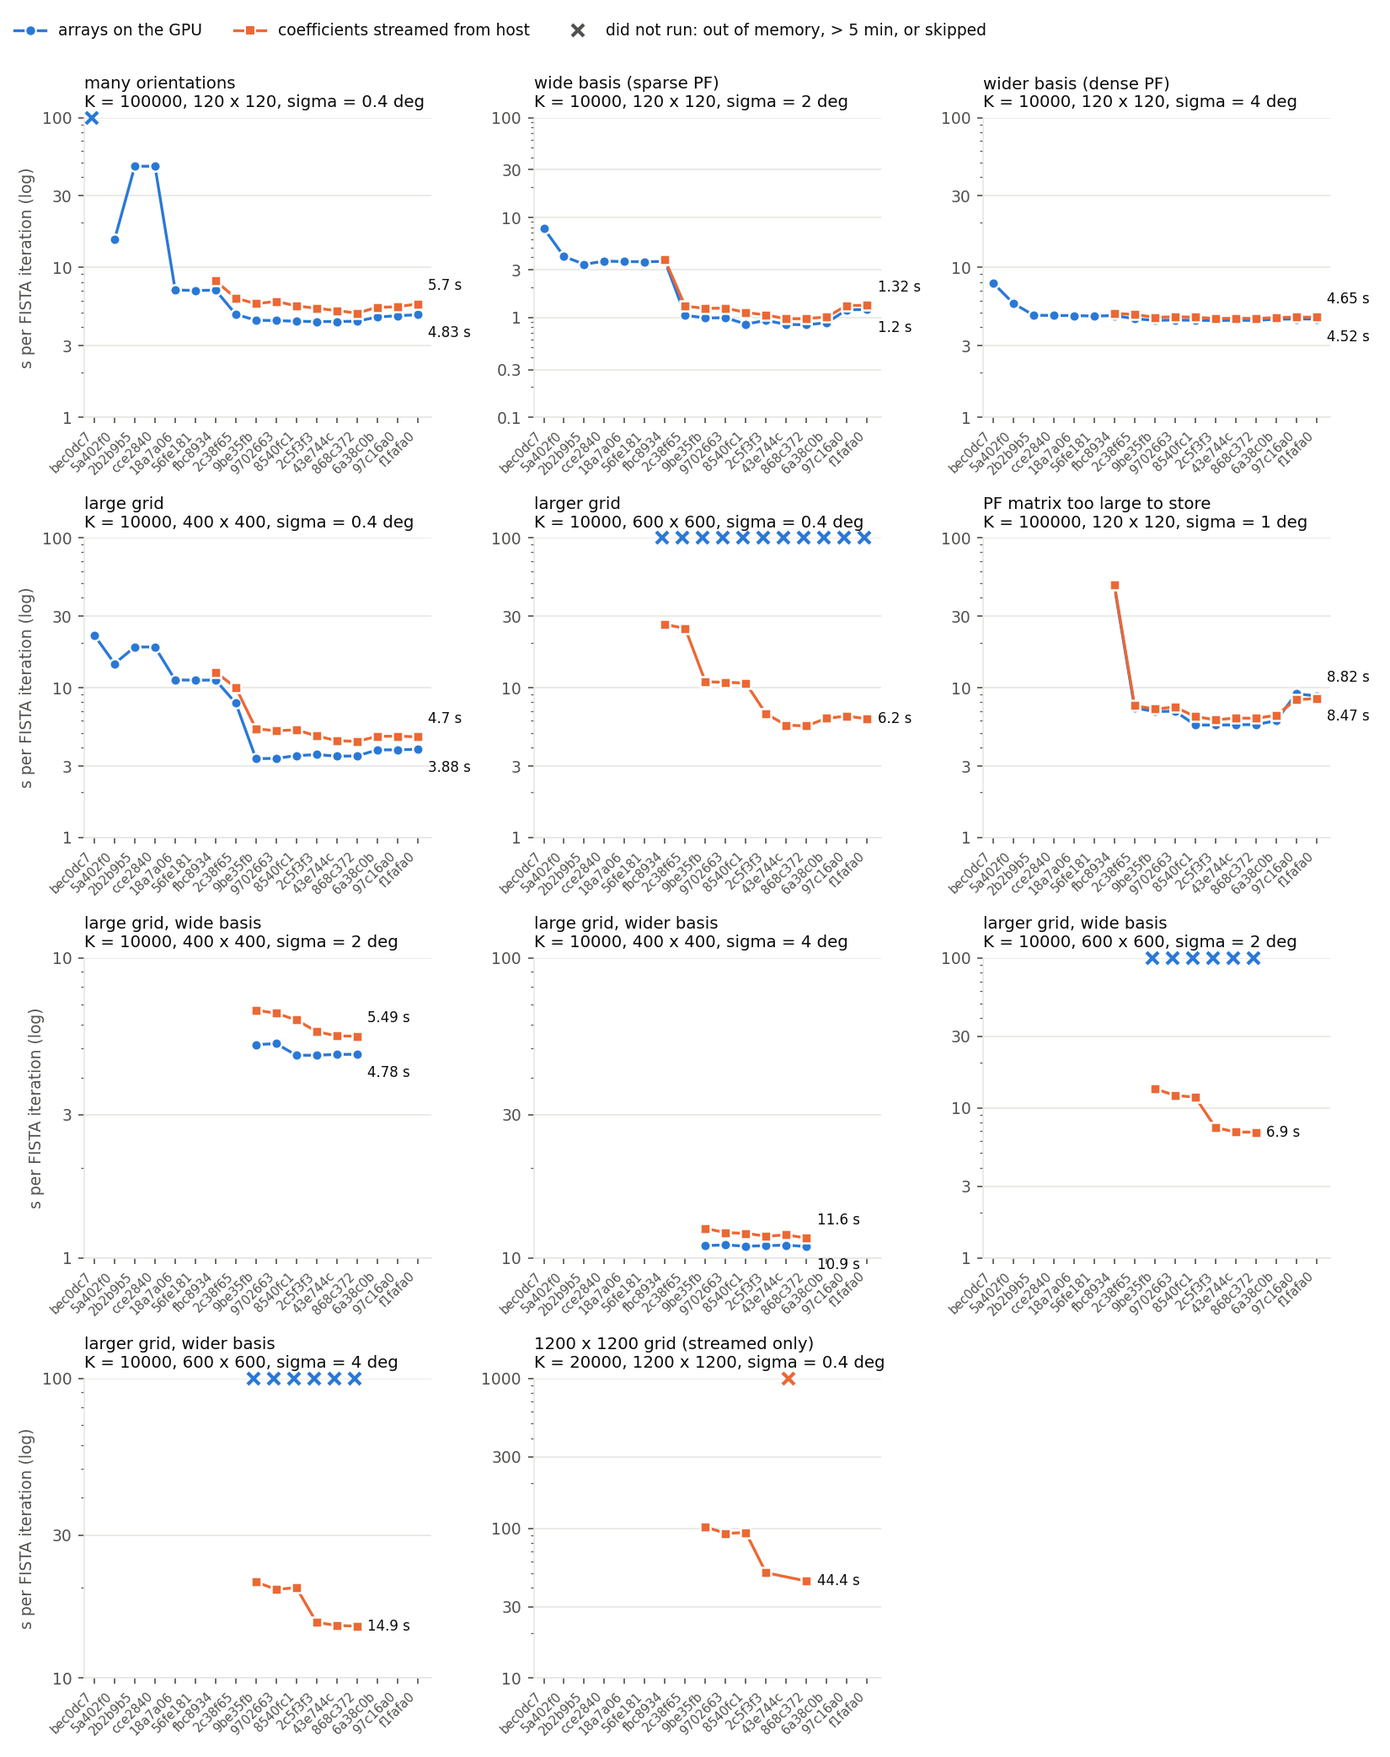
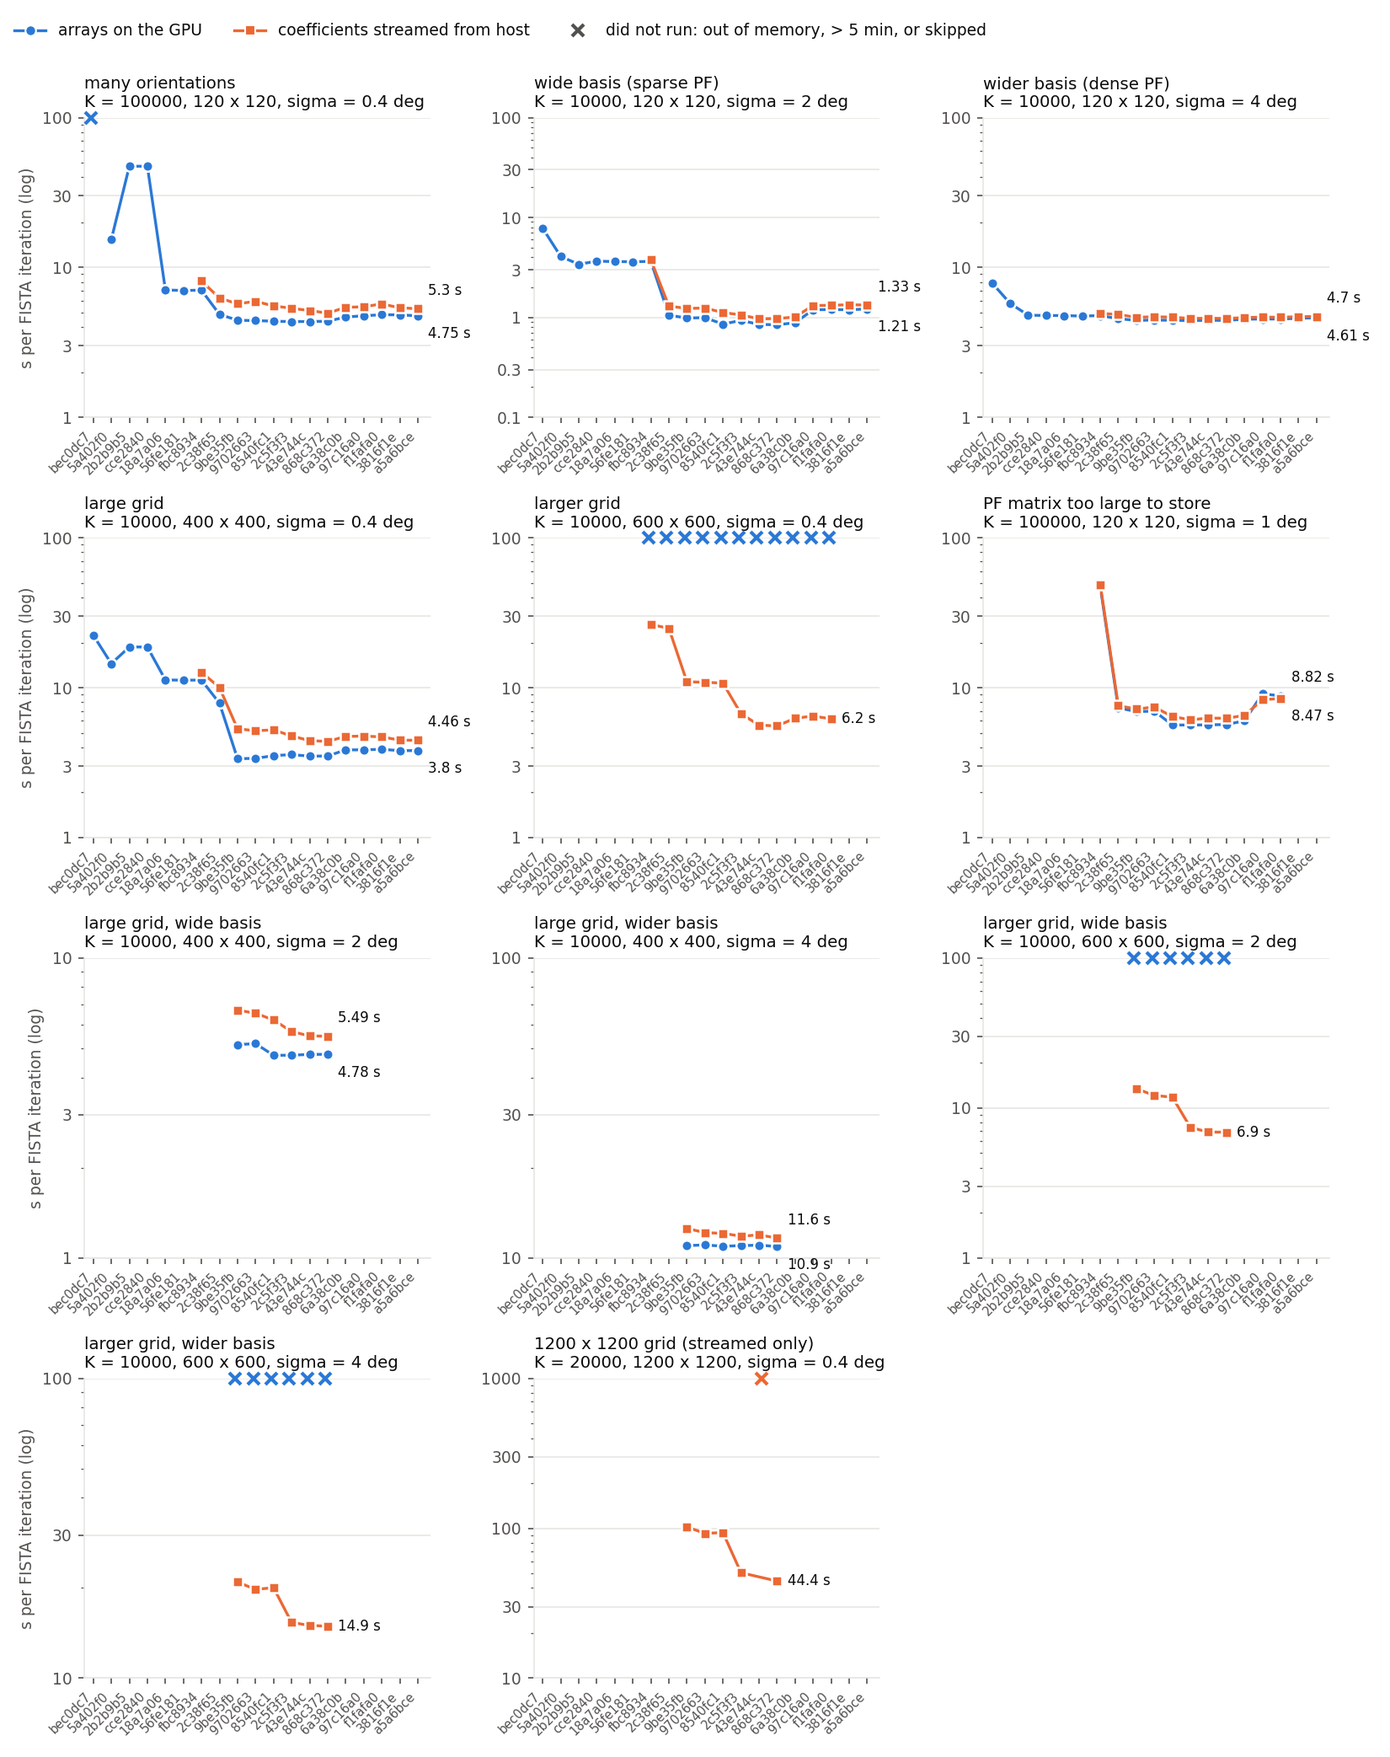
Benchmark results: 3816f1e vs a5a6bce (A40, default suite)
The tuned kernel choice of ParallelRadon keeps the tiled kernels on the A40 (speed-ups 0.96-1.06x, noise); the
gains are on the A100 / V100 (Al1050 PDHG 3.57 -> 3.10 s per iteration on an A100).

diff --git a/benchmarks/RESULTS.md b/benchmarks/RESULTS.md
@@ -10,6 +10,8 @@ Speed and peak memory of diffractom's texture-tomography reconstruction across v
 
 | version | date | what changed |
 |---|---|---|
+| `a5a6bce` | 2026-11-02 | ParallelRadon picks the faster of its tiled and plain kernels; FFT projector subsets; tests |
+| `3816f1e` | 2026-11-01 | Merge branch 'subsets': omega subsets of the operator and SPDHGPoisson |
 | `f1fafa0` | 2026-10-29 | Gauss-Legendre quadrature over the (omega, eta) bins, the fewest nodes that keep every PF entry within 5 % of the peak (here 4 nodes at sigma 0.4 deg, 2 at 1 deg, 1 from 1.3 deg); candidate counts of generated PF batches computed once |
 | `97c16a0` | 2026-10-29 | PF Gaussians cut at 4 sigma (was 3; results change by ~0.8 %; 1.78 times the non-zeros) |
 | `6a38c0b` | 2026-10-26 | main of 2026-10-26: pixel-footprint (trapezoid) projector kernel by default (results differ by ~2 %); local basis, ODF basis, structure factors, Bragg-edge operator (not in these cases) |
@@ -28,38 +30,34 @@ Speed and peak memory of diffractom's texture-tomography reconstruction across v
 | `5a402f0` | 2026-09-28 | sparse PF matrix (`pf_mode="auto"`) |
 | `bec0dc7` | 2026-09-28 | before the speed-ups: dense PF matrix only |
 
-## Newest (`f1fafa0`) against the version before it (`97c16a0`)
+## Newest (`a5a6bce`) against the version before it (`3816f1e`)
 
 Seconds per FISTA iteration, steady state (without the first iteration, which includes the setup) where both versions recorded it (marked s), else the average of the two iterations; speed-up = previous / newest (below 1: slower). Single short runs: differences within about 10 % are noise.
 
 | case | mode | previous | newest | speed-up |
 |---|---|---:|---:|---:|
-| K = 1000, 120 x 120, sigma = 0.4 | gpu | 0.055 | 0.0559 | 0.98x s |
-| K = 3000, 120 x 120, sigma = 0.4 | gpu | 0.11 | 0.112 | 0.99x s |
-| K = 10000, 64 x 64, sigma = 0.4 | gpu | 0.148 | 0.151 | 0.98x s |
-| K = 10000, 120 x 120, sigma = 0.4 | gpu | 0.356 | 0.363 | 0.98x s |
-| K = 10000, 120 x 120, sigma = 1 | gpu | 0.473 | 0.483 | 0.98x s |
-| K = 10000, 120 x 120, sigma = 2 | gpu | 0.904 | 0.904 | 1.00x s |
-| K = 10000, 120 x 120, sigma = 4 | gpu | 3.4 | 3.4 | 1.00x s |
-| K = 10000, 200 x 200, sigma = 0.4 | gpu | 0.82 | 0.832 | 0.98x s |
-| K = 10000, 400 x 400, sigma = 0.4 | gpu | 2.76 | 2.75 | 1.00x s |
-| K = 10000, 600 x 600, sigma = 0.4 | gpu | *array > largest GPU buffer* | *array > largest GPU buffer* |  |
-| K = 30000, 120 x 120, sigma = 0.4 | gpu | 1.06 | 1.07 | 0.98x s |
-| K = 100000, 120 x 120, sigma = 0.4 | gpu | 3.47 | 3.53 | 0.98x s |
-| K = 100000, 120 x 120, sigma = 1 | gpu | 6.57 | 6.38 | 1.03x s |
-| K = 1000, 120 x 120, sigma = 0.4 | stream | 0.0619 | 0.0632 | 0.98x s |
-| K = 3000, 120 x 120, sigma = 0.4 | stream | 0.121 | 0.123 | 0.98x s |
-| K = 10000, 64 x 64, sigma = 0.4 | stream | 0.154 | 0.157 | 0.98x s |
-| K = 10000, 120 x 120, sigma = 0.4 | stream | 0.399 | 0.375 | 1.06x s |
-| K = 10000, 120 x 120, sigma = 1 | stream | 0.483 | 0.488 | 0.99x s |
-| K = 10000, 120 x 120, sigma = 2 | stream | 0.912 | 0.913 | 1.00x s |
-| K = 10000, 120 x 120, sigma = 4 | stream | 3.42 | 3.42 | 1.00x s |
-| K = 10000, 200 x 200, sigma = 0.4 | stream | 0.845 | 0.854 | 0.99x s |
-| K = 10000, 400 x 400, sigma = 0.4 | stream | 2.82 | 2.78 | 1.01x s |
-| K = 10000, 600 x 600, sigma = 0.4 | stream | 3.74 | 3.66 | 1.02x s |
-| K = 30000, 120 x 120, sigma = 0.4 | stream | 1.07 | 1.12 | 0.95x s |
-| K = 100000, 120 x 120, sigma = 0.4 | stream | 3.49 | 3.55 | 0.98x s |
-| K = 100000, 120 x 120, sigma = 1 | stream | 5.44 | 5.61 | 0.97x s |
+| K = 1000, 120 x 120, sigma = 0.4 | gpu | 0.0563 | 0.0586 | 0.96x s |
+| K = 3000, 120 x 120, sigma = 0.4 | gpu | 0.112 | 0.114 | 0.98x s |
+| K = 10000, 64 x 64, sigma = 0.4 | gpu | 0.151 | 0.149 | 1.01x s |
+| K = 10000, 120 x 120, sigma = 0.4 | gpu | 0.362 | 0.362 | 1.00x s |
+| K = 10000, 120 x 120, sigma = 1 | gpu | 0.481 | 0.485 | 0.99x s |
+| K = 10000, 120 x 120, sigma = 2 | gpu | 0.903 | 0.927 | 0.97x s |
+| K = 10000, 120 x 120, sigma = 4 | gpu | 3.44 | 3.48 | 0.99x s |
+| K = 10000, 200 x 200, sigma = 0.4 | gpu | 0.83 | 0.805 | 1.03x s |
+| K = 10000, 400 x 400, sigma = 0.4 | gpu | 2.74 | 2.75 | 1.00x s |
+| K = 30000, 120 x 120, sigma = 0.4 | gpu | 1.11 | 1.05 | 1.06x s |
+| K = 100000, 120 x 120, sigma = 0.4 | gpu | 3.52 | 3.45 | 1.02x s |
+| K = 1000, 120 x 120, sigma = 0.4 | stream | 0.062 | 0.0645 | 0.96x s |
+| K = 3000, 120 x 120, sigma = 0.4 | stream | 0.122 | 0.121 | 1.01x s |
+| K = 10000, 64 x 64, sigma = 0.4 | stream | 0.156 | 0.155 | 1.01x s |
+| K = 10000, 120 x 120, sigma = 0.4 | stream | 0.373 | 0.373 | 1.00x s |
+| K = 10000, 120 x 120, sigma = 1 | stream | 0.487 | 0.492 | 0.99x s |
+| K = 10000, 120 x 120, sigma = 2 | stream | 0.91 | 0.934 | 0.97x s |
+| K = 10000, 120 x 120, sigma = 4 | stream | 3.46 | 3.47 | 1.00x s |
+| K = 10000, 200 x 200, sigma = 0.4 | stream | 0.852 | 0.826 | 1.03x s |
+| K = 10000, 400 x 400, sigma = 0.4 | stream | 2.77 | 2.77 | 1.00x s |
+| K = 30000, 120 x 120, sigma = 0.4 | stream | 1.08 | 1.06 | 1.02x s |
+| K = 100000, 120 x 120, sigma = 0.4 | stream | 3.54 | 3.48 | 1.02x s |
 
 ## Every version on the base case
 
@@ -325,6 +323,50 @@ The time per iteration above includes a one-time setup in the first of the two F
 | `f1fafa0` | K = 10000, 400 x 400, sigma = 0.4 | gpu | 6.07 | 2.75 |
 | `f1fafa0` | K = 10000, 400 x 400, sigma = 0.4 | stream | 8.42 | 2.78 |
 | `f1fafa0` | K = 10000, 600 x 600, sigma = 0.4 | stream | 11.1 | 3.66 |
+| `3816f1e` | K = 10000, 64 x 64, sigma = 0.4 | gpu | 0.321 | 0.151 |
+| `3816f1e` | K = 10000, 64 x 64, sigma = 0.4 | stream | 0.452 | 0.156 |
+| `3816f1e` | K = 1000, 120 x 120, sigma = 0.4 | gpu | 0.118 | 0.0563 |
+| `3816f1e` | K = 1000, 120 x 120, sigma = 0.4 | stream | 0.266 | 0.062 |
+| `3816f1e` | K = 3000, 120 x 120, sigma = 0.4 | gpu | 0.237 | 0.112 |
+| `3816f1e` | K = 3000, 120 x 120, sigma = 0.4 | stream | 0.426 | 0.122 |
+| `3816f1e` | K = 10000, 120 x 120, sigma = 0.4 | gpu | 0.747 | 0.362 |
+| `3816f1e` | K = 10000, 120 x 120, sigma = 0.4 | stream | 1.05 | 0.373 |
+| `3816f1e` | K = 10000, 120 x 120, sigma = 1 | gpu | 0.958 | 0.481 |
+| `3816f1e` | K = 10000, 120 x 120, sigma = 1 | stream | 1.32 | 0.487 |
+| `3816f1e` | K = 10000, 120 x 120, sigma = 2 | gpu | 1.7 | 0.903 |
+| `3816f1e` | K = 10000, 120 x 120, sigma = 2 | stream | 2.07 | 0.91 |
+| `3816f1e` | K = 10000, 120 x 120, sigma = 4 | gpu | 6.79 | 3.44 |
+| `3816f1e` | K = 10000, 120 x 120, sigma = 4 | stream | 7.06 | 3.46 |
+| `3816f1e` | K = 30000, 120 x 120, sigma = 0.4 | gpu | 2.22 | 1.11 |
+| `3816f1e` | K = 30000, 120 x 120, sigma = 0.4 | stream | 2.78 | 1.08 |
+| `3816f1e` | K = 100000, 120 x 120, sigma = 0.4 | gpu | 7.3 | 3.52 |
+| `3816f1e` | K = 100000, 120 x 120, sigma = 0.4 | stream | 8.83 | 3.54 |
+| `3816f1e` | K = 10000, 200 x 200, sigma = 0.4 | gpu | 1.73 | 0.83 |
+| `3816f1e` | K = 10000, 200 x 200, sigma = 0.4 | stream | 2.41 | 0.852 |
+| `3816f1e` | K = 10000, 400 x 400, sigma = 0.4 | gpu | 5.85 | 2.74 |
+| `3816f1e` | K = 10000, 400 x 400, sigma = 0.4 | stream | 7.77 | 2.77 |
+| `a5a6bce` | K = 10000, 64 x 64, sigma = 0.4 | gpu | 0.317 | 0.149 |
+| `a5a6bce` | K = 10000, 64 x 64, sigma = 0.4 | stream | 0.446 | 0.155 |
+| `a5a6bce` | K = 1000, 120 x 120, sigma = 0.4 | gpu | 0.118 | 0.0586 |
+| `a5a6bce` | K = 1000, 120 x 120, sigma = 0.4 | stream | 0.265 | 0.0645 |
+| `a5a6bce` | K = 3000, 120 x 120, sigma = 0.4 | gpu | 0.24 | 0.114 |
+| `a5a6bce` | K = 3000, 120 x 120, sigma = 0.4 | stream | 0.426 | 0.121 |
+| `a5a6bce` | K = 10000, 120 x 120, sigma = 0.4 | gpu | 0.747 | 0.362 |
+| `a5a6bce` | K = 10000, 120 x 120, sigma = 0.4 | stream | 1.05 | 0.373 |
+| `a5a6bce` | K = 10000, 120 x 120, sigma = 1 | gpu | 0.962 | 0.485 |
+| `a5a6bce` | K = 10000, 120 x 120, sigma = 1 | stream | 1.25 | 0.492 |
+| `a5a6bce` | K = 10000, 120 x 120, sigma = 2 | gpu | 1.73 | 0.927 |
+| `a5a6bce` | K = 10000, 120 x 120, sigma = 2 | stream | 2.03 | 0.934 |
+| `a5a6bce` | K = 10000, 120 x 120, sigma = 4 | gpu | 6.82 | 3.48 |
+| `a5a6bce` | K = 10000, 120 x 120, sigma = 4 | stream | 7.08 | 3.47 |
+| `a5a6bce` | K = 30000, 120 x 120, sigma = 0.4 | gpu | 2.2 | 1.05 |
+| `a5a6bce` | K = 30000, 120 x 120, sigma = 0.4 | stream | 2.77 | 1.06 |
+| `a5a6bce` | K = 100000, 120 x 120, sigma = 0.4 | gpu | 7.23 | 3.45 |
+| `a5a6bce` | K = 100000, 120 x 120, sigma = 0.4 | stream | 8.73 | 3.48 |
+| `a5a6bce` | K = 10000, 200 x 200, sigma = 0.4 | gpu | 1.71 | 0.805 |
+| `a5a6bce` | K = 10000, 200 x 200, sigma = 0.4 | stream | 2.38 | 0.826 |
+| `a5a6bce` | K = 10000, 400 x 400, sigma = 0.4 | gpu | 5.85 | 2.75 |
+| `a5a6bce` | K = 10000, 400 x 400, sigma = 0.4 | stream | 7.73 | 2.77 |
 
 ## Arrays on the GPU
 
@@ -339,6 +381,8 @@ Seconds per FISTA iteration; the fastest version per column in bold; * the base 
 
 | version | 1000 | 3000 | 10000 * | 30000 | 100000 |
 |---|---:|---:|---:|---:|---:|
+| `a5a6bce` | 0.0906 | 0.168 | 0.505 | 1.45 | 4.75 |
+| `3816f1e` | 0.094 | 0.166 | 0.505 | 1.5 | 4.82 |
 | `f1fafa0` | 0.0877 | 0.166 | 0.507 | 1.48 | 4.83 |
 | `97c16a0` | 0.0857 | 0.168 | 0.499 | 1.46 | 4.75 |
 | `6a38c0b` | 0.0849 | 0.176 | 0.5 | 1.43 | 4.66 |
@@ -361,6 +405,8 @@ Seconds per FISTA iteration; the fastest version per column in bold; * the base 
 
 | version | 64 | 120 * | 200 | 400 |
 |---|---:|---:|---:|---:|
+| `a5a6bce` | 0.222 | 0.505 | 1.12 | 3.8 |
+| `3816f1e` | 0.223 | 0.505 | 1.15 | 3.8 |
 | `f1fafa0` | 0.223 | 0.507 | 1.19 | 3.88 |
 | `97c16a0` | 0.224 | 0.499 | 1.14 | 3.85 |
 | `6a38c0b` | 0.216 | 0.5 | 1.12 | 3.84 |
@@ -383,6 +429,8 @@ Seconds per FISTA iteration; the fastest version per column in bold; * the base 
 
 | version | 0.4 deg * | 1 deg | 2 deg | 4 deg |
 |---|---:|---:|---:|---:|
+| `a5a6bce` | 0.505 | 0.661 | 1.21 | 4.61 |
+| `3816f1e` | 0.505 | 0.656 | 1.19 | 4.57 |
 | `f1fafa0` | 0.507 | 0.665 | 1.2 | 4.52 |
 | `97c16a0` | 0.499 | 0.651 | 1.19 | 4.52 |
 | `6a38c0b` | 0.5 | 0.564 | 0.883 | 4.51 |
@@ -414,6 +462,8 @@ Seconds per FISTA iteration; the fastest version per column in bold; * the base 
 
 | version | 1000 | 3000 | 10000 * | 30000 | 100000 |
 |---|---:|---:|---:|---:|---:|
+| `a5a6bce` | 0.147 | 0.249 | 0.629 | 1.66 | 5.3 |
+| `3816f1e` | 0.146 | 0.242 | 0.62 | 1.68 | 5.37 |
 | `f1fafa0` | 0.149 | 0.277 | 0.65 | 1.76 | 5.7 |
 | `97c16a0` | **0.145** | 0.259 | 0.661 | 1.83 | 5.46 |
 | `6a38c0b` | 0.145 | **0.239** | 0.696 | 1.7 | 5.41 |
@@ -430,6 +480,8 @@ Seconds per FISTA iteration; the fastest version per column in bold; * the base 
 
 | version | 64 | 120 * | 200 | 400 |
 |---|---:|---:|---:|---:|
+| `a5a6bce` | 0.274 | 0.629 | 1.37 | 4.46 |
+| `3816f1e` | 0.274 | 0.62 | 1.39 | 4.46 |
 | `f1fafa0` | 0.285 | 0.65 | 1.45 | 4.7 |
 | `97c16a0` | 0.32 | 0.661 | 1.54 | 4.75 |
 | `6a38c0b` | 0.273 | 0.696 | 1.43 | 4.73 |
@@ -446,6 +498,8 @@ Seconds per FISTA iteration; the fastest version per column in bold; * the base 
 
 | version | 0.4 deg * | 1 deg | 2 deg | 4 deg |
 |---|---:|---:|---:|---:|
+| `a5a6bce` | 0.629 | 0.766 | 1.33 | 4.7 |
+| `3816f1e` | 0.62 | 0.785 | 1.34 | 4.69 |
 | `f1fafa0` | 0.65 | 0.784 | 1.32 | 4.65 |
 | `97c16a0` | 0.661 | 0.81 | 1.31 | 4.66 |
 | `6a38c0b` | 0.696 | 0.684 | 1.01 | 4.63 |
@@ -469,6 +523,8 @@ Seconds per FISTA iteration; the fastest version per column in bold; * the base 
 
 | version | 1000 | 3000 | 10000 * | 30000 | 100000 |
 |---|---:|---:|---:|---:|---:|
+| `a5a6bce` | 3.1 | 3.6 | 5.2 | 10.3 | 29.3 |
+| `3816f1e` | 3.1 | 3.6 | 5.2 | 10.3 | 29.3 |
 | `f1fafa0` | 3.1 | 3.6 | 5.2 | 10.3 | 29.3 |
 | `97c16a0` | 3.0 | 3.5 | 4.9 | 9.6 | 27.0 |
 | `6a38c0b` | 3.0 | 3.4 | 4.6 | **8.6** | **23.5** |
@@ -491,6 +547,8 @@ Seconds per FISTA iteration; the fastest version per column in bold; * the base 
 
 | version | 1000 | 3000 | 10000 * | 30000 | 100000 |
 |---|---:|---:|---:|---:|---:|
+| `a5a6bce` | 1.5 | 1.8 | 2.9 | 6.2 | 17.8 |
+| `3816f1e` | 1.5 | 1.8 | 2.9 | 6.2 | 17.8 |
 | `f1fafa0` | 1.5 | 1.8 | 2.9 | 6.2 | 17.8 |
 | `97c16a0` | 1.4 | 1.7 | 2.9 | 6.2 | 17.8 |
 | `6a38c0b` | 1.4 | 1.7 | 2.9 | 6.2 | 17.8 |
@@ -513,6 +571,8 @@ Seconds per FISTA iteration; the fastest version per column in bold; * the base 
 
 | version | 1000 | 3000 | 10000 * | 30000 | 100000 |
 |---|---:|---:|---:|---:|---:|
+| `a5a6bce` | 3.2 | 3.8 | 4.8 | 7.0 | 14.8 |
+| `3816f1e` | 3.2 | 3.8 | 4.8 | 7.0 | 14.8 |
 | `f1fafa0` | 3.2 | 3.8 | 4.8 | 7.0 | 14.8 |
 | `97c16a0` | 3.1 | 3.7 | 4.6 | 6.3 | 12.4 |
 | `6a38c0b` | 3.1 | 3.6 | 4.2 | 5.3 | 9.0 |
@@ -529,6 +589,8 @@ Seconds per FISTA iteration; the fastest version per column in bold; * the base 
 
 | version | 1000 | 3000 | 10000 * | 30000 | 100000 |
 |---|---:|---:|---:|---:|---:|
+| `a5a6bce` | 2.2 | 2.5 | 4.9 | 7.4 | 14.9 |
+| `3816f1e` | 2.2 | 2.5 | 4.9 | 7.4 | 14.9 |
 | `f1fafa0` | 2.2 | 2.5 | 4.9 | 7.5 | 14.9 |
 | `97c16a0` | 2.1 | 2.4 | 4.9 | 7.4 | 14.9 |
 | `6a38c0b` | 2.1 | 2.4 | 4.9 | 7.3 | 14.8 |
@@ -565,6 +627,50 @@ Seconds per FISTA iteration (and how the PF matrix was applied: dense; sparse wi
 
 | version | mode | K | N | sigma | status | PF | build (s) | forward (s) | adjoint (s) | FISTA / it (s) | GPU (GiB) | host (GiB) |
 |---|---|---:|---:|---:|---|---|---:|---:|---:|---:|---:|---:|
+| `a5a6bce` | gpu | 1000 | 120 | 0.4 | ok | sparse, both | 2.25 | 0.0384 | 0.0342 | 0.0906 | 3.11 | 1.49 |
+| `a5a6bce` | gpu | 3000 | 120 | 0.4 | ok | sparse, both | 2.46 | 0.0814 | 0.0652 | 0.168 | 3.63 | 1.76 |
+| `a5a6bce` | gpu | 10000 | 64 | 0.4 | ok | sparse, both | 2.44 | 0.11 | 0.0903 | 0.222 | 3.17 | 1.39 |
+| `a5a6bce` | gpu | 10000 | 120 | 0.4 | ok | sparse, both | 2.21 | 0.253 | 0.221 | 0.505 | 5.24 | 2.92 |
+| `a5a6bce` | gpu | 10000 | 120 | 1 | ok | sparse, both | 2.18 | 0.312 | 0.309 | 0.661 | 9.04 | 2.88 |
+| `a5a6bce` | gpu | 10000 | 120 | 2 | ok | sparse, both | 3.11 | 0.522 | 0.647 | 1.21 | 22.0 | 2.92 |
+| `a5a6bce` | gpu | 10000 | 120 | 4 | ok | dense | 1.45 | 2.21 | 2.31 | 4.61 | 5.89 | 2.86 |
+| `a5a6bce` | gpu | 10000 | 200 | 0.4 | ok | sparse, both | 2.34 | 0.588 | 0.473 | 1.12 | 9.07 | 6.32 |
+| `a5a6bce` | gpu | 10000 | 400 | 0.4 | ok | sparse, both | 5.08 | 2.02 | 1.61 | 3.8 | 25.4 | 21.1 |
+| `a5a6bce` | gpu | 30000 | 120 | 0.4 | ok | sparse, both | 3.97 | 0.752 | 0.636 | 1.45 | 10.3 | 6.23 |
+| `a5a6bce` | gpu | 100000 | 120 | 0.4 | ok | sparse, both | 7.17 | 2.47 | 2.1 | 4.75 | 29.3 | 17.8 |
+| `a5a6bce` | stream | 1000 | 120 | 0.4 | ok | sparse, both | 1.94 | 0.538 | 0.139 | 0.147 | 3.21 | 2.21 |
+| `a5a6bce` | stream | 3000 | 120 | 0.4 | ok | sparse, both | 1.86 | 0.449 | 0.175 | 0.249 | 3.8 | 2.49 |
+| `a5a6bce` | stream | 10000 | 64 | 0.4 | ok | sparse, both | 2.25 | 0.288 | 0.149 | 0.274 | 3.05 | 1.92 |
+| `a5a6bce` | stream | 10000 | 120 | 0.4 | ok | sparse, both | 2.24 | 0.661 | 0.331 | 0.629 | 4.84 | 4.93 |
+| `a5a6bce` | stream | 10000 | 120 | 1 | ok | sparse, both | 2.7 | 0.711 | 0.415 | 0.766 | 8.55 | 4.83 |
+| `a5a6bce` | stream | 10000 | 120 | 2 | ok | sparse, both | 2.64 | 0.8 | 0.747 | 1.33 | 21.1 | 4.56 |
+| `a5a6bce` | stream | 10000 | 120 | 4 | ok | dense | 1.81 | 2.49 | 2.41 | 4.7 | 5.48 | 4.56 |
+| `a5a6bce` | stream | 10000 | 200 | 0.4 | ok | sparse, both | 2.44 | 1.49 | 0.658 | 1.37 | 7.94 | 8.23 |
+| `a5a6bce` | stream | 10000 | 400 | 0.4 | ok | sparse, both | 4.08 | 3.56 | 1.94 | 4.46 | 13.7 | 19.7 |
+| `a5a6bce` | stream | 30000 | 120 | 0.4 | ok | sparse, both | 3.56 | 1.16 | 0.744 | 1.66 | 7.05 | 7.39 |
+| `a5a6bce` | stream | 100000 | 120 | 0.4 | ok | sparse, both | 7.24 | 2.86 | 2.2 | 5.3 | 14.8 | 14.9 |
+| `3816f1e` | gpu | 1000 | 120 | 0.4 | ok | sparse, both | 2.17 | 0.193 | 0.0319 | 0.094 | 3.11 | 1.49 |
+| `3816f1e` | gpu | 3000 | 120 | 0.4 | ok | sparse, both | 1.85 | 0.112 | 0.064 | 0.166 | 3.63 | 1.77 |
+| `3816f1e` | gpu | 10000 | 64 | 0.4 | ok | sparse, both | 2.71 | 0.14 | 0.0902 | 0.223 | 3.17 | 1.39 |
+| `3816f1e` | gpu | 10000 | 120 | 0.4 | ok | sparse, both | 2.39 | 0.281 | 0.221 | 0.505 | 5.24 | 2.92 |
+| `3816f1e` | gpu | 10000 | 120 | 1 | ok | sparse, both | 2.07 | 0.338 | 0.308 | 0.656 | 9.04 | 2.88 |
+| `3816f1e` | gpu | 10000 | 120 | 2 | ok | sparse, both | 3.11 | 0.552 | 0.621 | 1.19 | 22.0 | 2.92 |
+| `3816f1e` | gpu | 10000 | 120 | 4 | ok | dense | 1.82 | 2.23 | 2.28 | 4.57 | 5.89 | 2.86 |
+| `3816f1e` | gpu | 10000 | 200 | 0.4 | ok | sparse, both | 2.24 | 0.617 | 0.495 | 1.15 | 9.07 | 6.32 |
+| `3816f1e` | gpu | 10000 | 400 | 0.4 | ok | sparse, both | 2.37 | 2.02 | 1.61 | 3.8 | 25.4 | 21.1 |
+| `3816f1e` | gpu | 30000 | 120 | 0.4 | ok | sparse, both | 4.1 | 0.779 | 0.66 | 1.5 | 10.3 | 6.23 |
+| `3816f1e` | gpu | 100000 | 120 | 0.4 | ok | sparse, both | 7.75 | 2.47 | 2.17 | 4.82 | 29.3 | 17.8 |
+| `3816f1e` | stream | 1000 | 120 | 0.4 | ok | sparse, both | 1.75 | 0.355 | 0.143 | 0.146 | 3.21 | 2.21 |
+| `3816f1e` | stream | 3000 | 120 | 0.4 | ok | sparse, both | 1.84 | 0.48 | 0.174 | 0.242 | 3.8 | 2.47 |
+| `3816f1e` | stream | 10000 | 64 | 0.4 | ok | sparse, both | 2.18 | 0.317 | 0.148 | 0.274 | 3.05 | 1.92 |
+| `3816f1e` | stream | 10000 | 120 | 0.4 | ok | sparse, both | 2.16 | 0.698 | 0.33 | 0.62 | 4.84 | 4.93 |
+| `3816f1e` | stream | 10000 | 120 | 1 | ok | sparse, both | 2.03 | 0.918 | 0.443 | 0.785 | 8.55 | 4.83 |
+| `3816f1e` | stream | 10000 | 120 | 2 | ok | sparse, both | 2.65 | 0.835 | 0.724 | 1.34 | 21.1 | 4.56 |
+| `3816f1e` | stream | 10000 | 120 | 4 | ok | dense | 1.32 | 2.53 | 2.39 | 4.69 | 5.48 | 4.56 |
+| `3816f1e` | stream | 10000 | 200 | 0.4 | ok | sparse, both | 2.82 | 2.02 | 0.714 | 1.39 | 7.94 | 8.23 |
+| `3816f1e` | stream | 10000 | 400 | 0.4 | ok | sparse, both | 2.39 | 3.7 | 1.96 | 4.46 | 13.7 | 19.7 |
+| `3816f1e` | stream | 30000 | 120 | 0.4 | ok | sparse, both | 3.42 | 1.21 | 0.767 | 1.68 | 7.05 | 7.39 |
+| `3816f1e` | stream | 100000 | 120 | 0.4 | ok | sparse, both | 7.2 | 2.9 | 2.29 | 5.37 | 14.8 | 14.9 |
 | `f1fafa0` | gpu | 1000 | 120 | 0.4 | ok | sparse, both | 2.24 | 0.0684 | 0.0317 | 0.0877 | 3.11 | 1.49 |
 | `f1fafa0` | gpu | 3000 | 120 | 0.4 | ok | sparse, both | 1.94 | 0.108 | 0.0644 | 0.166 | 3.63 | 1.77 |
 | `f1fafa0` | gpu | 10000 | 64 | 0.4 | ok | sparse, both | 2.37 | 0.141 | 0.0903 | 0.223 | 3.17 | 1.39 |
@@ -985,4 +1091,4 @@ Seconds per FISTA iteration (and how the PF matrix was applied: dense; sparse wi
 
 </details>
 
-Results files: `2026-10-02_1026_A40_n-62-18-4.jsonl`, `2026-10-02_1251_A40_n-62-18-4.jsonl`, `2026-10-02_1310_A40_n-62-18-4.jsonl`, `2026-10-02_1344_A40_n-62-18-4.jsonl`, `2026-10-02_1420_A40_n-62-18-4.jsonl`, `2026-10-02_1503_A40_n-62-18-4.jsonl`, `2026-10-02_1530_A40_n-62-18-4.jsonl`, `2026-10-02_1607_A40_n-62-18-4.jsonl`, `2026-10-02_1637_A40_n-62-18-4.jsonl`, `2026-10-02_1722_A40_n-62-18-4.jsonl`, `2026-10-02_1759_A40_n-62-18-4.jsonl`, `2026-10-02_1844_A40_n-62-18-4.jsonl`, `2026-10-02_1913_A40_n-62-18-4.jsonl`, `2026-10-02_1922_A40_n-62-18-4.jsonl`, `2026-10-29_1745_A40_n-62-18-4.jsonl`
+Results files: `2026-10-02_1026_A40_n-62-18-4.jsonl`, `2026-10-02_1251_A40_n-62-18-4.jsonl`, `2026-10-02_1310_A40_n-62-18-4.jsonl`, `2026-10-02_1344_A40_n-62-18-4.jsonl`, `2026-10-02_1420_A40_n-62-18-4.jsonl`, `2026-10-02_1503_A40_n-62-18-4.jsonl`, `2026-10-02_1530_A40_n-62-18-4.jsonl`, `2026-10-02_1607_A40_n-62-18-4.jsonl`, `2026-10-02_1637_A40_n-62-18-4.jsonl`, `2026-10-02_1722_A40_n-62-18-4.jsonl`, `2026-10-02_1759_A40_n-62-18-4.jsonl`, `2026-10-02_1844_A40_n-62-18-4.jsonl`, `2026-10-02_1913_A40_n-62-18-4.jsonl`, `2026-10-02_1922_A40_n-62-18-4.jsonl`, `2026-10-29_1745_A40_n-62-18-4.jsonl`, `2026-11-02_0920_A40_n-62-18-4.jsonl`
